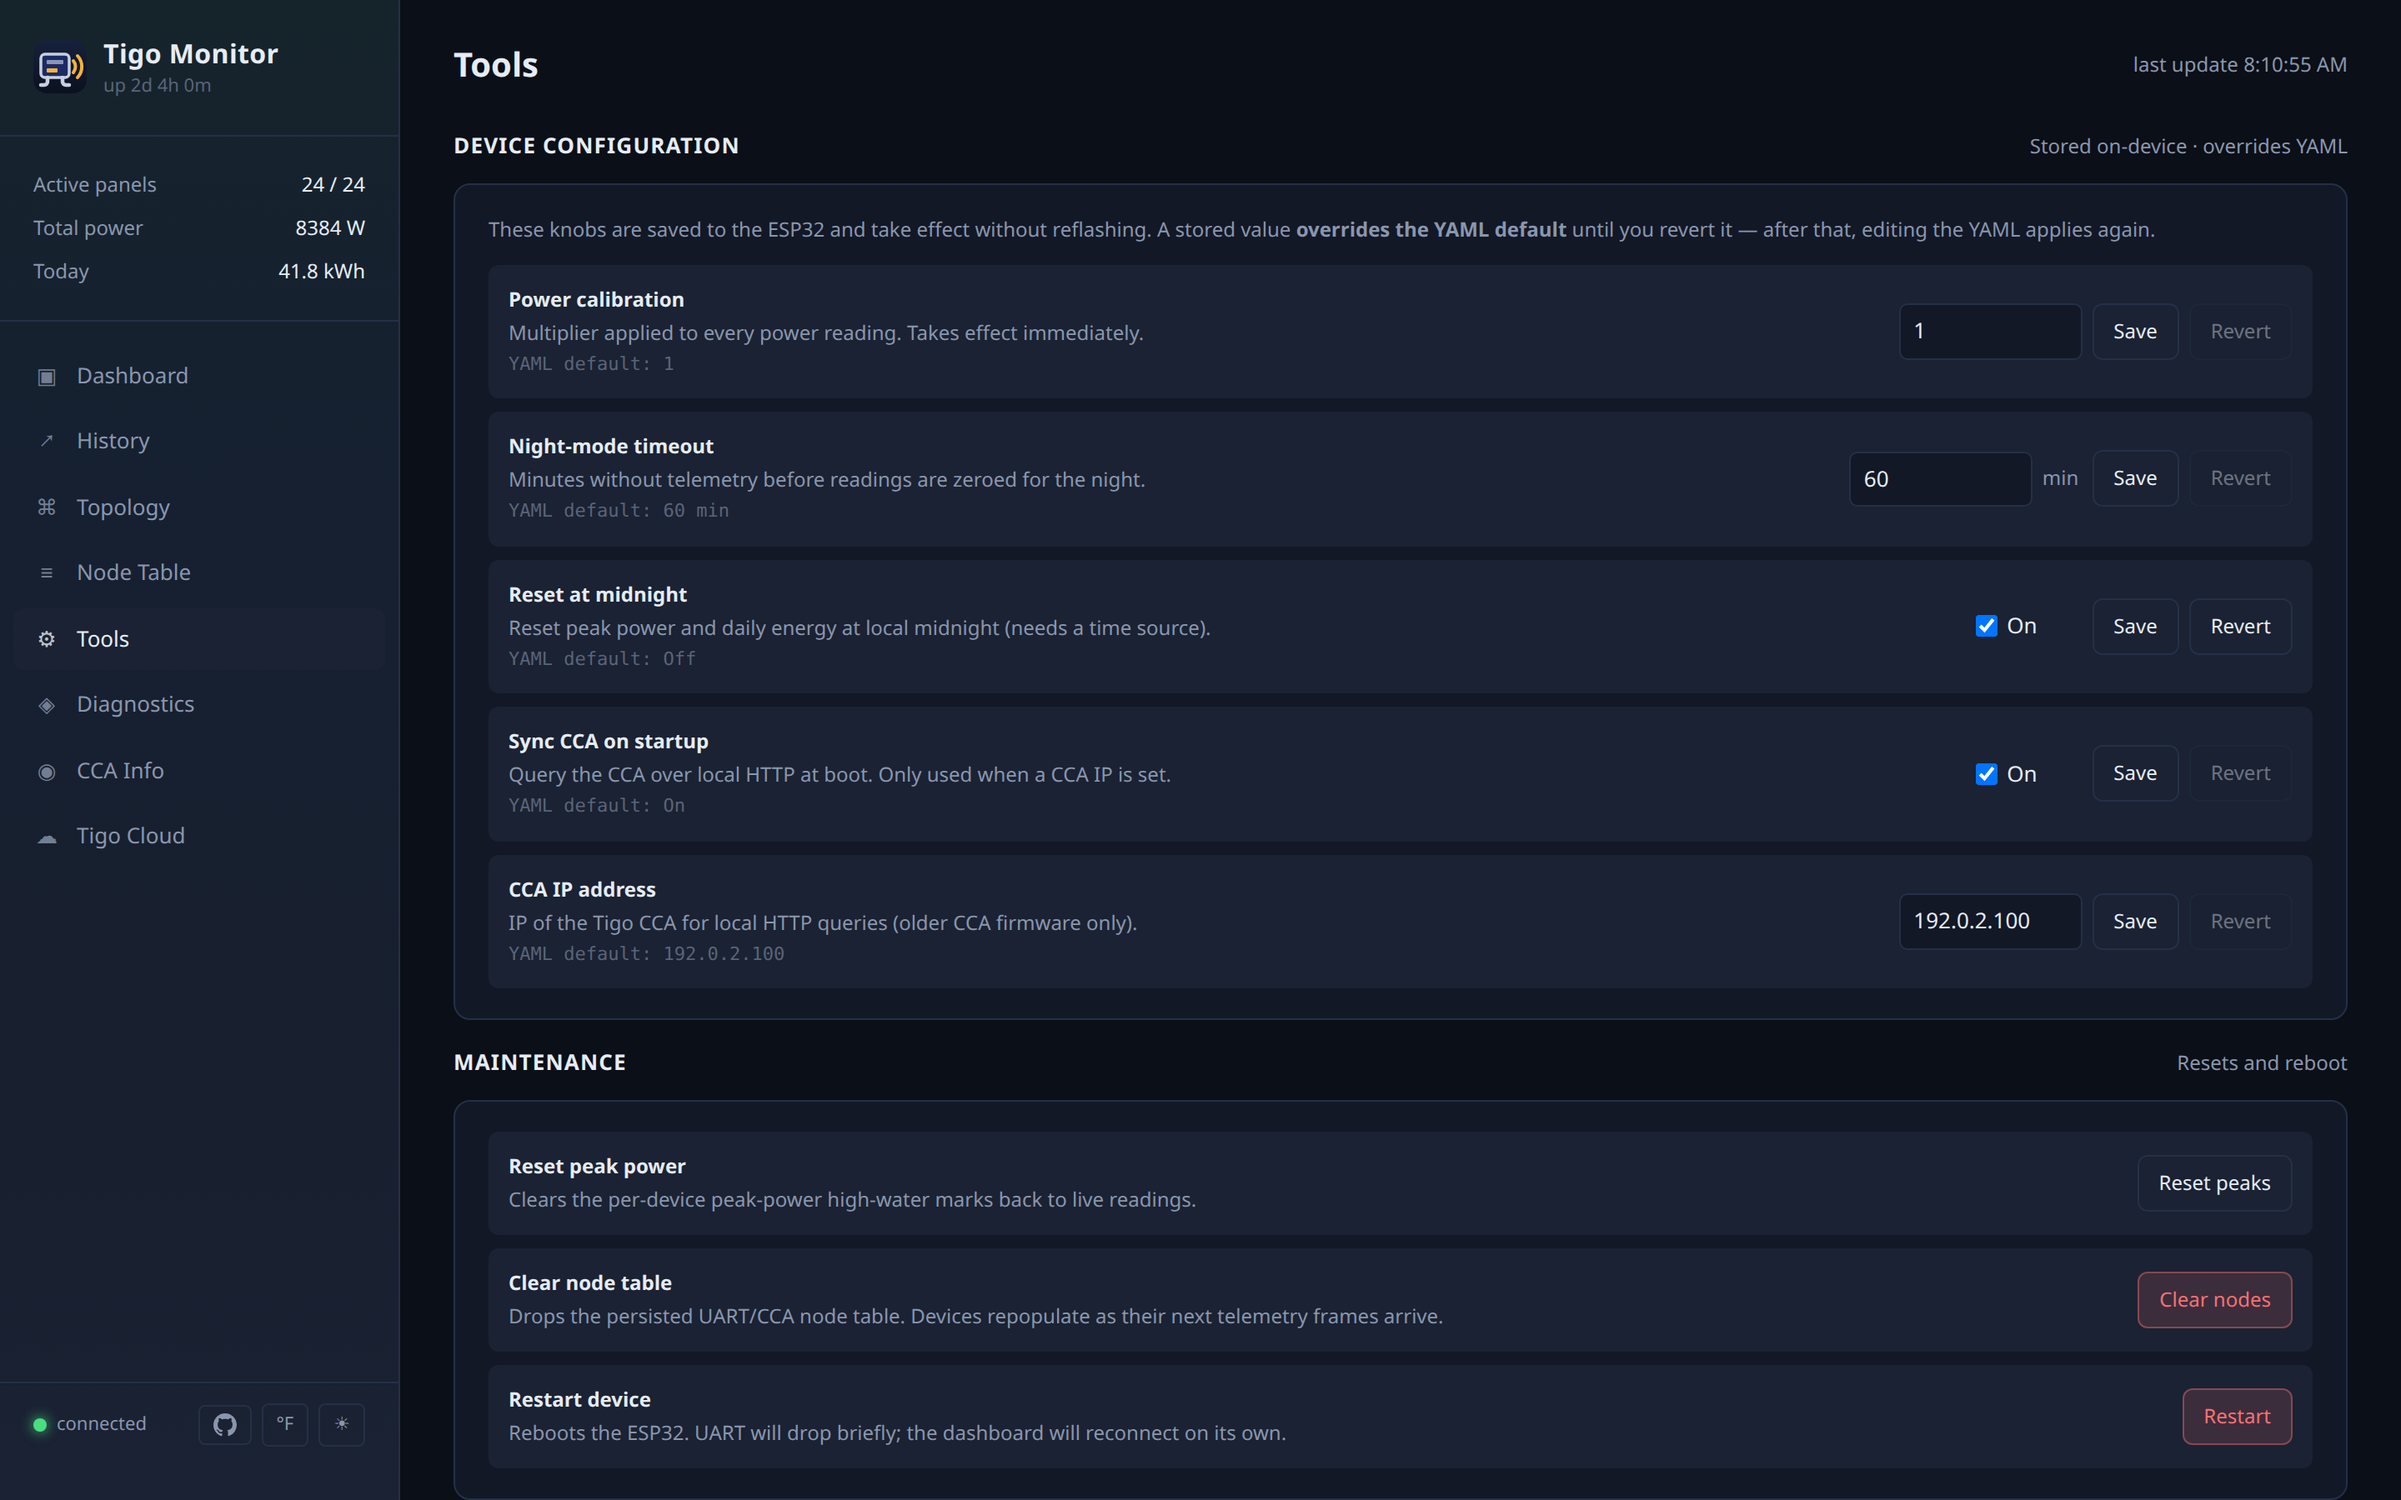
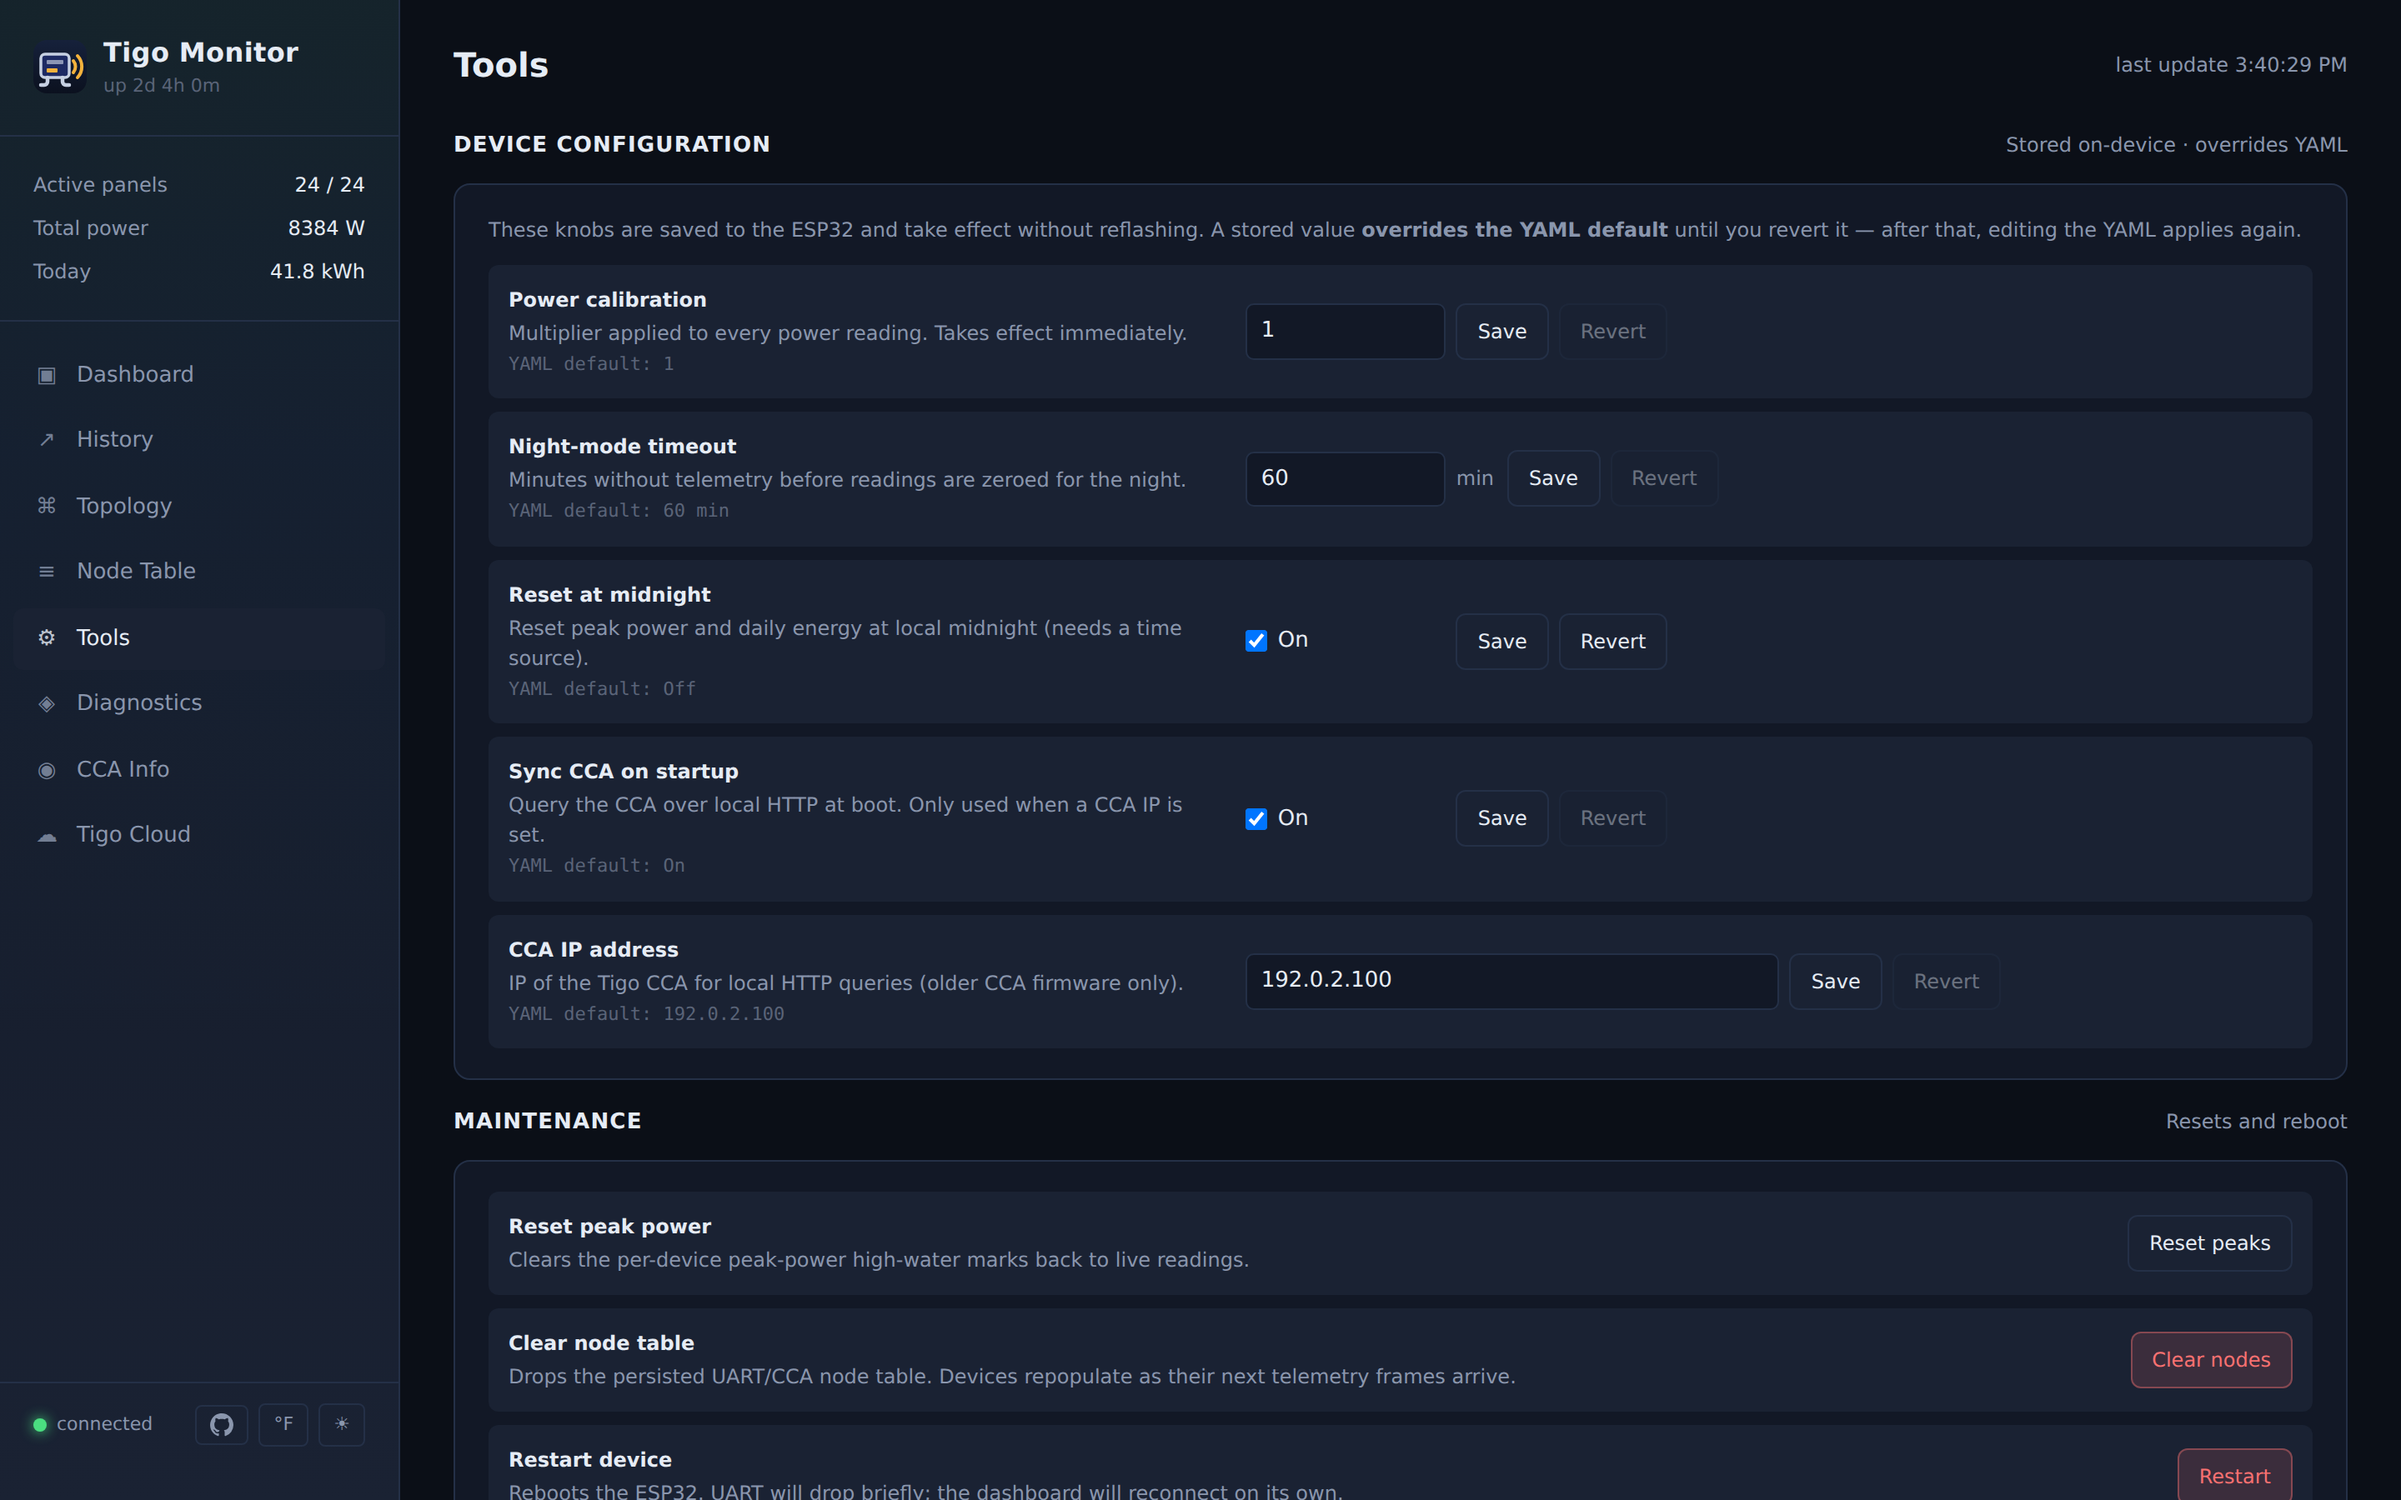
fix(tigo_server): lay Tools settings out as a two-column form
Each setting row was a flex row: the label took all the spare width,
and the controls shrank against the right edge. Every field was a fixed
110 px, so "homeassistant", broker addresses and the serial port list
were cut off. That hit both builds at any window width.

A row with a label is now a grid: the label in the left two fifths, the
controls starting on one line in the right three fifths. Text fields
fill up to 320 px and number fields 120 px. The On/Off switch takes a
number field's width, so the Save buttons line up down the card.
Below 720 px the row stacks to one column. Rows without a label (an
inverter's name, MPPTs and Remove) keep their flex layout. The
min-width that lets grid controls shrink applies only to grid rows,
because applied to every row it let the MPPT field run under Remove on
a phone.

Verified on the Pi daemon's Tools page at 1440, 800 and 390 px: no
horizontal scroll, fields aligned, values readable, and the inverter
row wraps cleanly on a phone. The ESP32 version, in the regenerated
docs screenshot docs/images/Tools.png, has the same layout. The other
five README screenshots changed only in clock and font smoothing, so
they're left out.

diff --git a/components/tigo_server/web/app.html b/components/tigo_server/web/app.html
@@ -527,11 +527,20 @@
   /* Device Configuration rows */
   .cfg-row { display: flex; gap: 14px; align-items: center; padding: 12px; background: var(--bg-3); border-radius: 6px; margin-bottom: 8px; flex-wrap: wrap; }
   .cfg-row:last-child { margin-bottom: 0; }
-  .cfg-text { flex: 1; min-width: 240px; font-size: 12px; }
+  /* A setting row is a two-column form: the label on the left, its controls
+     starting at the same line on the right, so the fields line up down the
+     card instead of shrinking against the right edge. One column on a phone. */
+  .cfg-row:has(> .cfg-text) { display: grid; grid-template-columns: minmax(0, 2fr) minmax(0, 3fr); gap: 8px 24px; }
+  @media (max-width: 720px) { .cfg-row:has(> .cfg-text) { grid-template-columns: minmax(0, 1fr); } }
+  .cfg-text { flex: 1; min-width: 0; font-size: 12px; }
   .cfg-text strong { display: block; color: var(--text); margin-bottom: 2px; }
   .cfg-text span { display: block; color: var(--text-dim); }
   .cfg-default { color: var(--text-faint) !important; font-size: 11px; margin-top: 2px; font-family: ui-monospace,Menlo,monospace; }
   .cfg-ctrl { display: flex; align-items: center; gap: 6px; }
+  .cfg-row:has(> .cfg-text) .cfg-ctrl { min-width: 0; }
+  .cfg-row:has(> .cfg-text) .cfg-ctrl .cfg-input { flex: 1 1 auto; width: 100%; max-width: 320px; }
+  .cfg-row:has(> .cfg-text) .cfg-ctrl .cfg-input[type="number"] { max-width: 120px; }
+  .cfg-row:has(> .cfg-text) .cfg-switch { min-width: 120px; }  /* Save lines up with the number rows' */
   .cfg-input { width: 110px; padding: 6px 8px; background: var(--bg-2); border: 1px solid var(--border); border-radius: 5px; color: var(--text); font-size: 13px; }
   .cfg-unit { color: var(--text-dim); font-size: 12px; margin-right: 2px; }
   .cfg-switch { display: inline-flex; align-items: center; gap: 6px; font-size: 13px; color: var(--text); cursor: pointer; min-width: 64px; }
